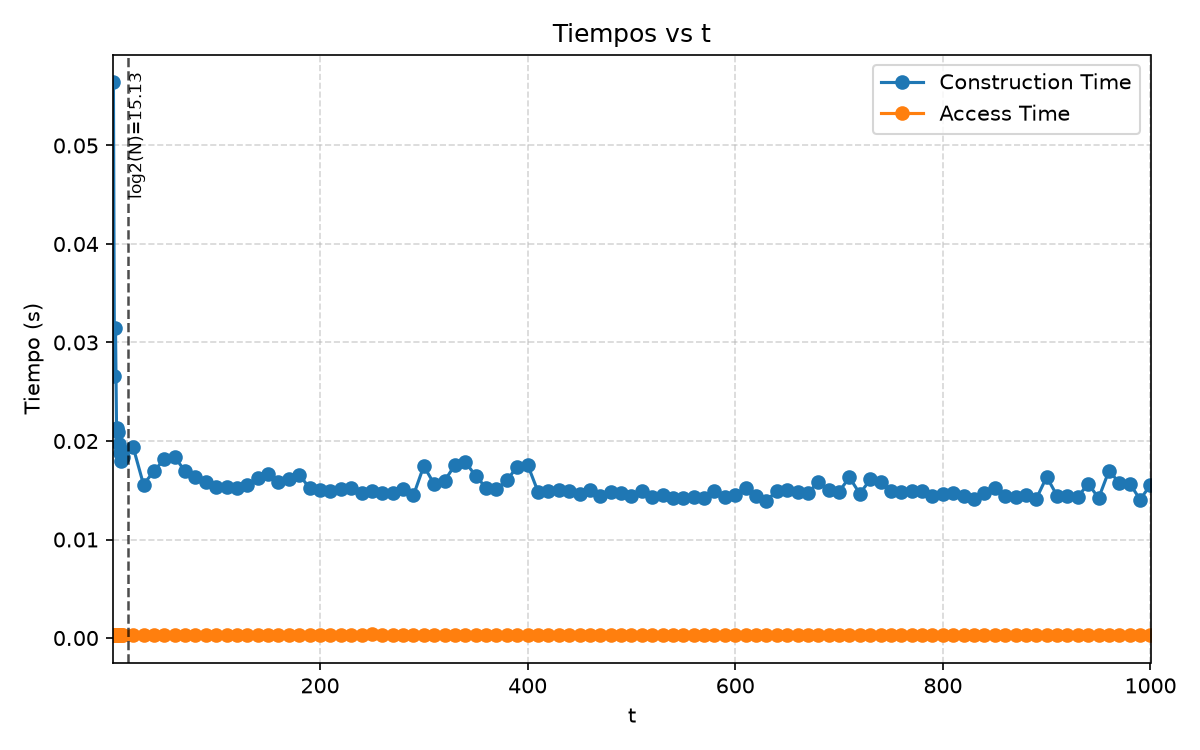
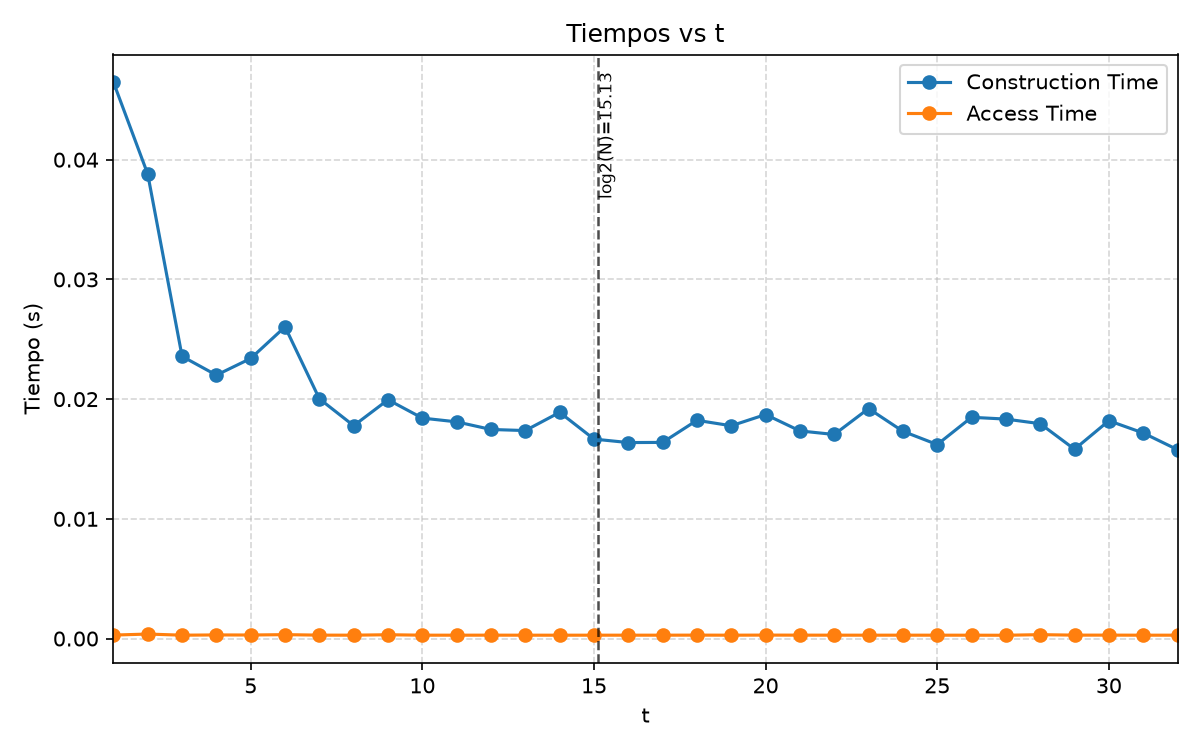
FEAT: Added more detail to plot script

diff --git a/plot.py b/plot.py
@@ -116,21 +116,35 @@ def plot_times(df: pd.DataFrame, out_dir: Path, N: float = None):
 
 def plot_inverse_time(df: pd.DataFrame, out_dir: Path, N: float = None):
     df = df.sort_values("t")
-    fig, ax = plt.subplots(figsize=(8, 5))
+    fig, ax1 = plt.subplots(figsize=(8, 5))
 
-    ax.plot(df["t"], df["Inverse Time"], marker="o", label="Inverse Time")
+    color1 = "tab:blue"
+    ax1.plot(df["t"], df["Inverse Time"], marker="o", color=color1, label="Inverse Time")
+    ax1.set_xlabel("t")
+    ax1.set_ylabel("Inverse Time (s)", color=color1)
+    ax1.tick_params(axis="y", labelcolor=color1)
+    ax1.grid(True, linestyle="--", alpha=0.5)
+    ax1.set_xlim(df["t"].min(), df["t"].max())
+    ax1.xaxis.set_inverted(False)
 
-    ax.set_xlabel("t")
-    ax.set_ylabel("Tiempo (s)")
-    ax.set_title("Tiempos vs t")
-    ax.grid(True, linestyle="--", alpha=0.5)
-    ax.set_xlim(df["t"].min(), df["t"].max())
-    ax.xaxis.set_inverted(False)
+    # Nueva serie: tiempo de operación inversa dividido por el espacio ocupado
+    ratio = df["Inverse Time"] / df["size"]
+    color2 = "tab:green"
+    ax2 = ax1.twinx()
+    ax2.plot(df["t"], ratio, marker="^", color=color2, label="Inverse Time / size")
+    ax2.set_ylabel("Inverse Time / size (s/byte)", color=color2)
+    ax2.tick_params(axis="y", labelcolor=color2)
+
+    ax1.set_title("Inverse Time vs t")
 
     if N is not None and N > 0:
-        add_log_line(ax, N)
+        add_log_line(ax1, N)
 
-    ax.legend()
+    # Leyenda combinada de ambos ejes
+    lines1, labels1 = ax1.get_legend_handles_labels()
+    lines2, labels2 = ax2.get_legend_handles_labels()
+    ax1.legend(lines1 + lines2, labels1 + labels2, loc="best")
+
     fig.tight_layout()
     out_path = out_dir / "inverse_time_vs_t.png"
     fig.savefig(out_path, dpi=150)

diff --git a/appBenchmark/graphBitVector.cpp b/appBenchmark/graphBitVector.cpp
@@ -54,7 +54,7 @@ bool GraphBitVector::adj(int n, int m){
 }
 
 int GraphBitVector::neighj(int n, int j){
-    return adjM[n].rank1(j);
+    return adjM[n].select1(j);
 }
 
 std::vector<int> GraphBitVector::neigh(int n){
